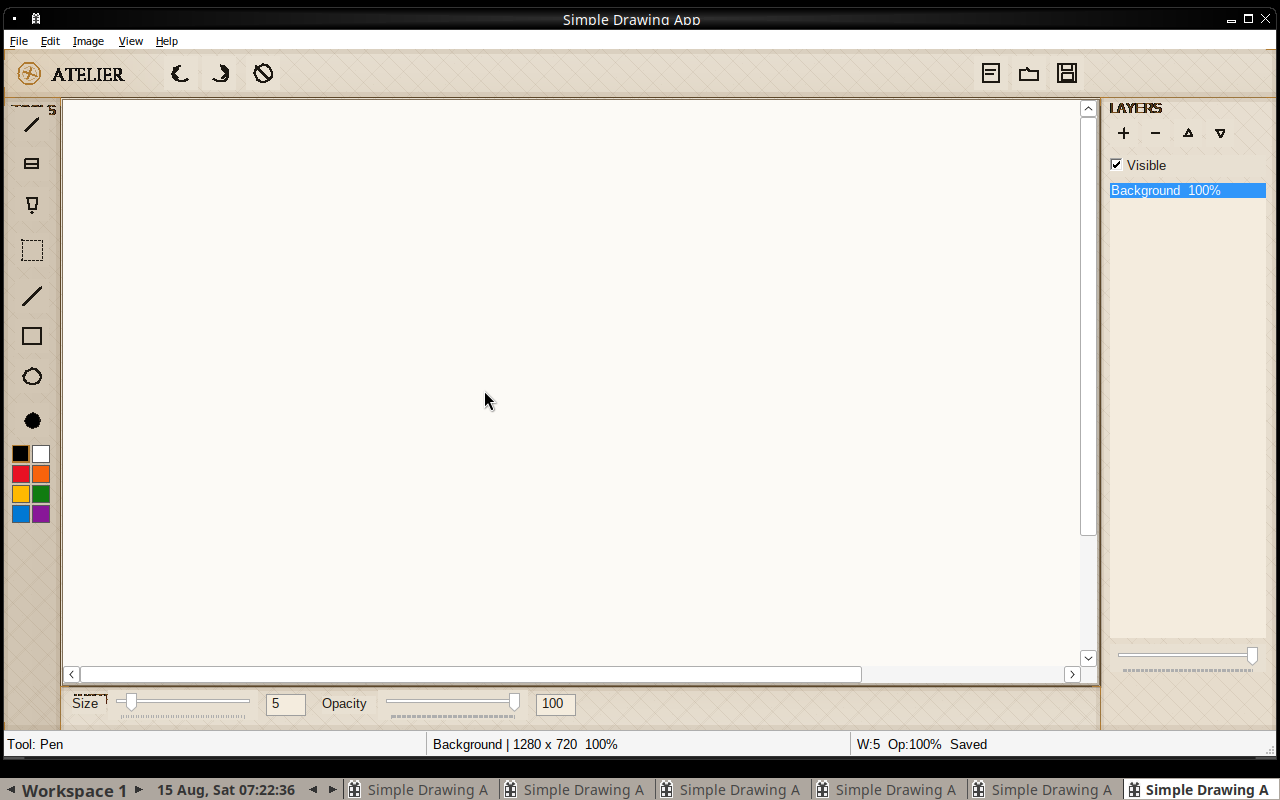
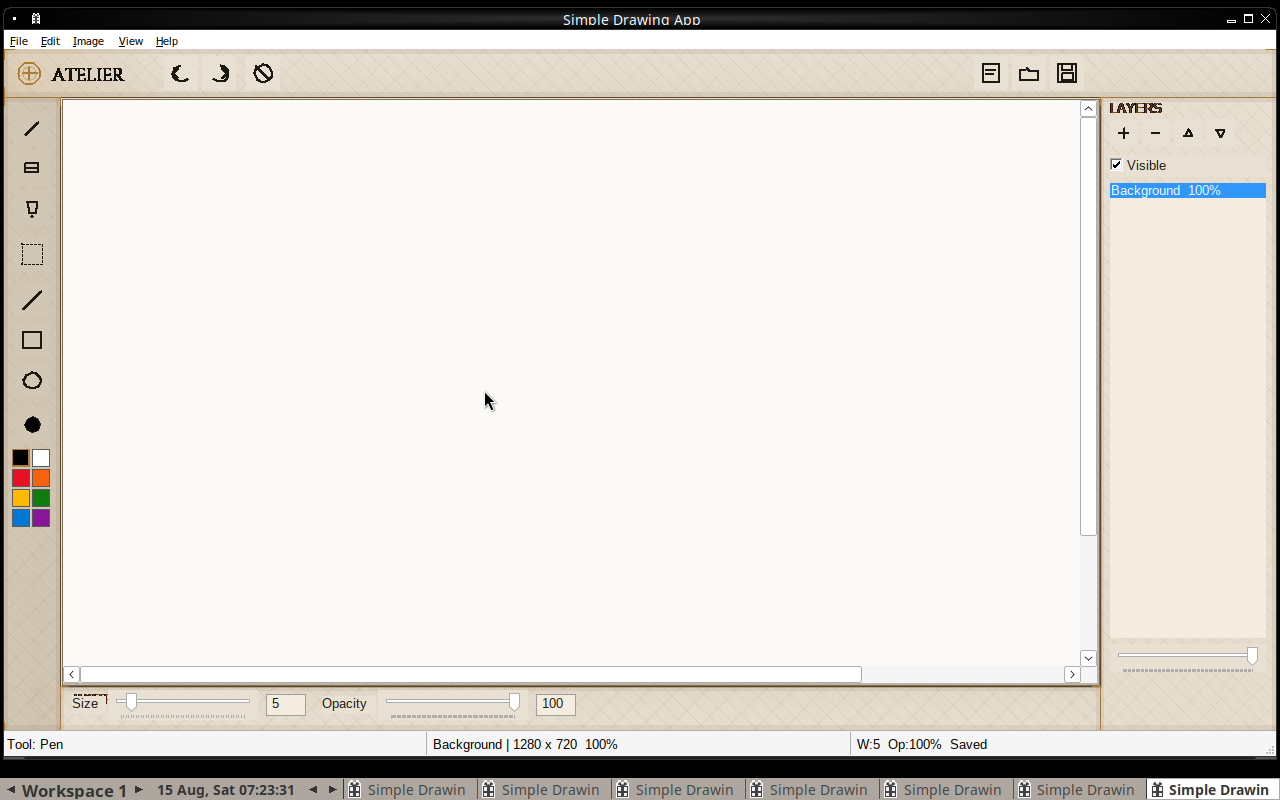
Tweak section captions to avoid tool-rail overlap

diff --git a/SimpleDrawingApp/SimpleDrawingApp.cpp b/SimpleDrawingApp/SimpleDrawingApp.cpp
@@ -630,7 +630,7 @@ static void LayoutChromeControls(HWND hwnd) {
 
     // Left tool rail (top → bottom).
     const int railX = (chrome.railW - ICON_BTN) / 2;
-    int y = chrome.topH + 10;
+    int y = chrome.topH + 14;
     const int order[7] = { 0, 1, 2, 6, 3, 4, 5 }; // Pen Eraser Fill Select Line Rect Ellipse
     for (int i = 0; i < 7; ++i) {
         const int idx = order[i];
@@ -2106,8 +2106,6 @@ static void PaintChromeInto(Graphics& g, int width, int height, const ChromeLayo
         SetBkMode(hdcCaps, TRANSPARENT);
         SetTextColor(hdcCaps, gTheme.accentDeep);
         TextOutA(hdcCaps, width - chrome.layerW + 10, chrome.topH + 4, "LAYERS", 6);
-        // Vertical-feeling label for tools via short top mark on rail.
-        TextOutA(hdcCaps, 8, chrome.topH + 6, "TOOLS", 5);
         TextOutA(hdcCaps, chrome.railW + 14, height - chrome.statusH - chrome.bottomH + 6, "INSTRUMENT", 10);
         if (old) SelectObject(hdcCaps, old);
         g.ReleaseHDC(hdcCaps);
